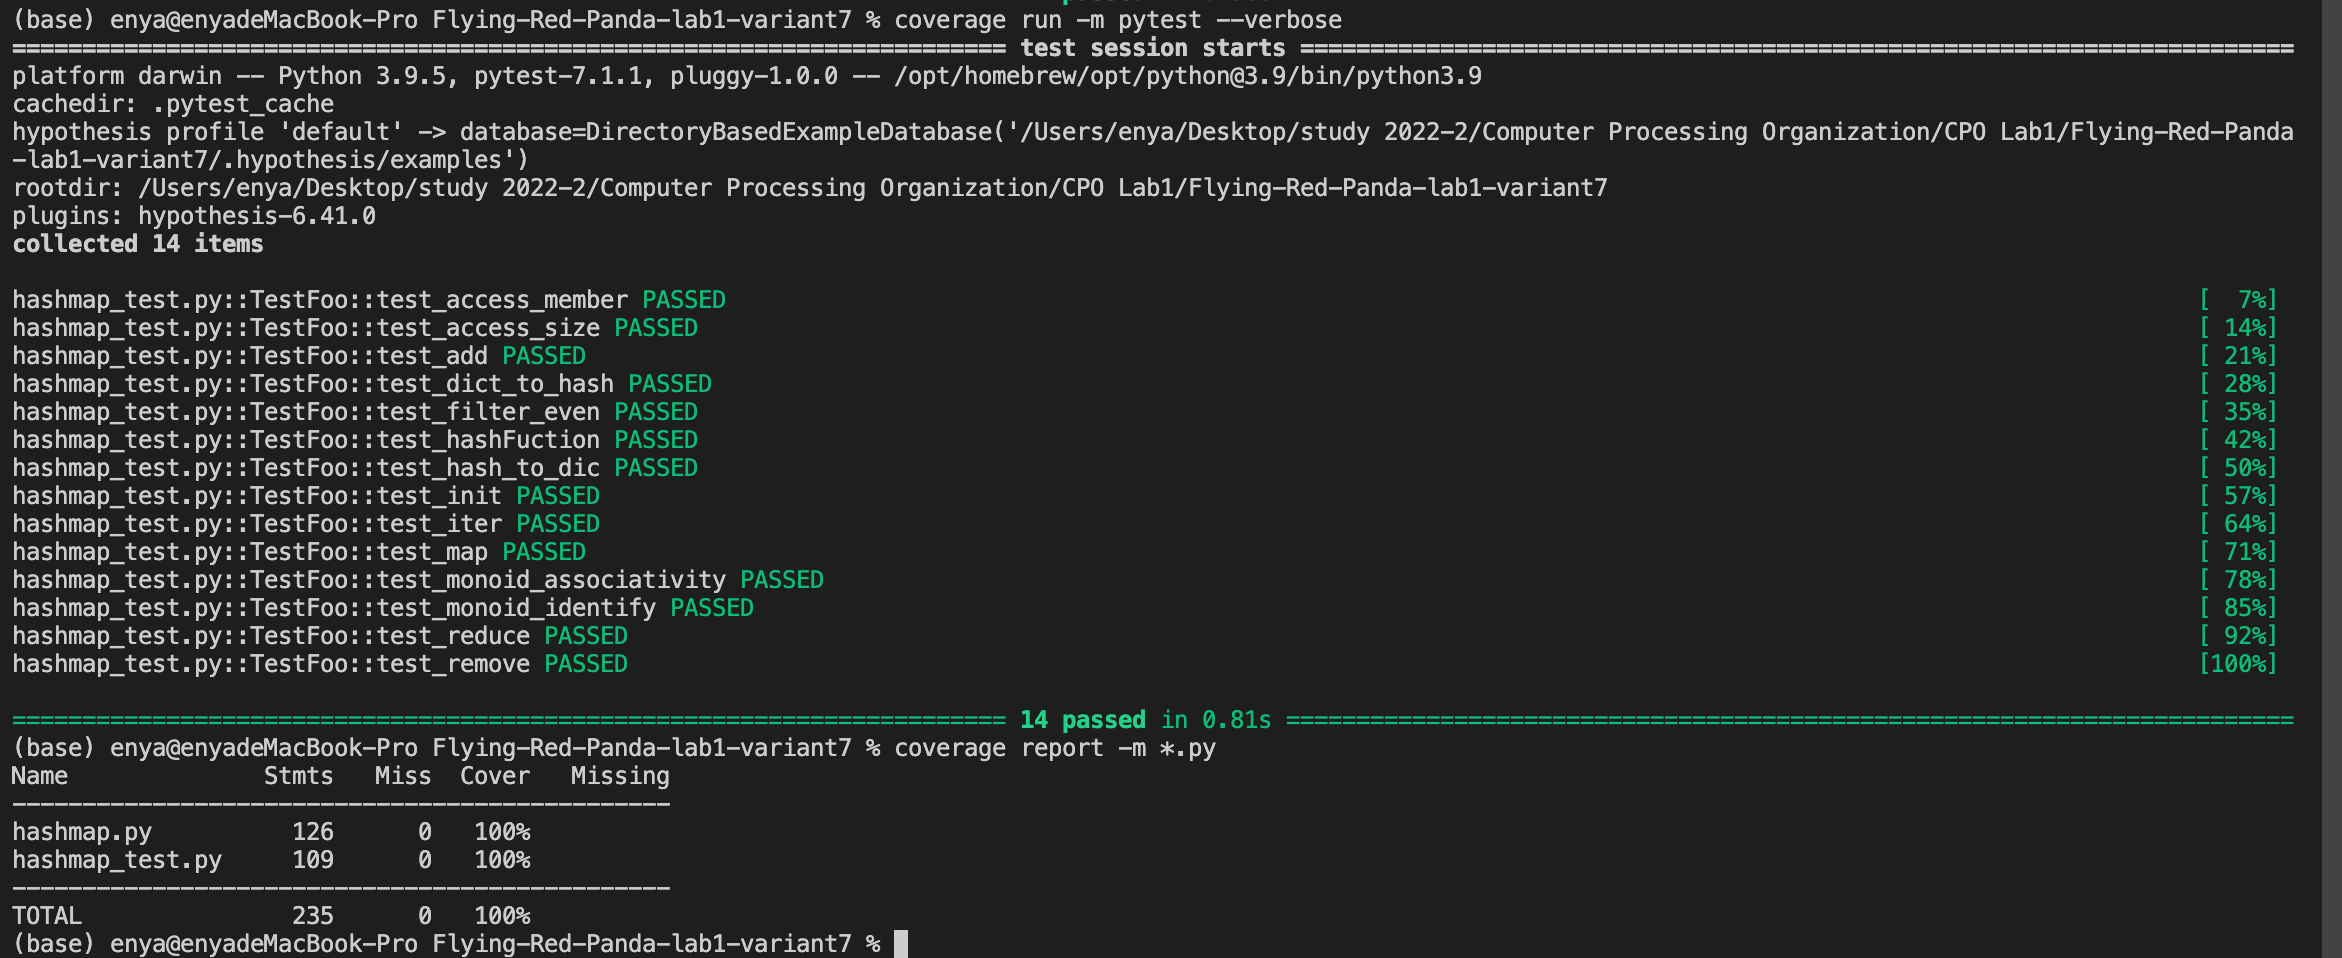
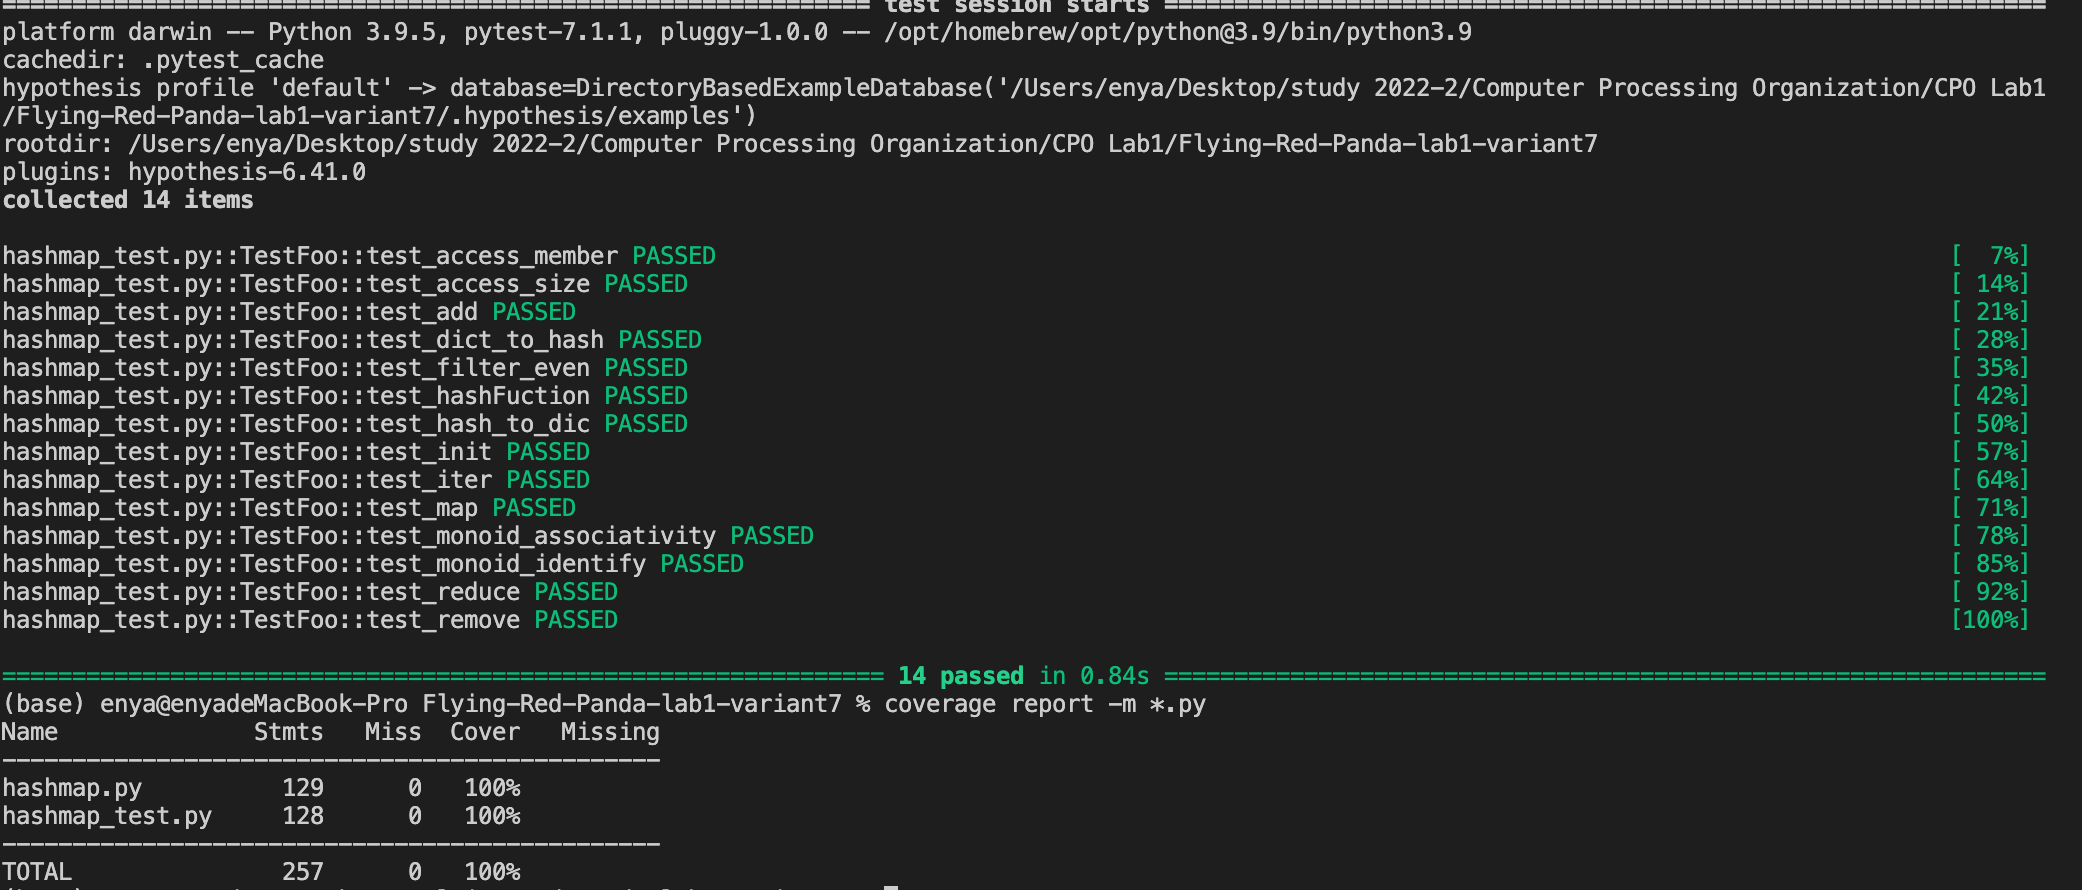
fix some of the functions

Changed region(s): [[0.0, 0.0, 1.0, 1.0]]

diff --git a/hashmap_test.py b/hashmap_test.py
@@ -7,10 +7,10 @@ from hashmap import HashMap
 class TestFoo(unittest.TestCase):
 
     def test_init(self):
-        hm = HashMap(45)
+        hm = HashMap(size=45)
         self.assertEqual(hm.bucket_size, 45)
 
-        hm = HashMap(10, {2: 'abc', 'omiga': 43, 7: 'cba', 'ocean': 66})
+        hm = HashMap({2: 'abc', 'omiga': 43, 7: 'cba', 'ocean': 66})
         hKey = hm.hashFuction(2)
         self.assertEqual(hm.bucket[hKey].value, 'abc')
         # hm.hashFuction(7) == hm.hashFuction(2)
@@ -36,9 +36,7 @@ class TestFoo(unittest.TestCase):
         self.assertEqual(hm.access_member(2), 100)
 
     def test_remove(self):
-        hm = HashMap(
-            10,
-            {2: 'abc', 'omiga': 43, 7: 'cba', 'ocean': 66, 12: 'bca'})
+        hm = HashMap({2: 'abc', 'omiga': 43, 7: 'cba', 'ocean': 66, 12: 'bca'})
         hm.remove(17)
         self.assertEqual(len(hm.key_existed), 5)
 
@@ -55,16 +53,16 @@ class TestFoo(unittest.TestCase):
         # key 9 doesn't exist
         hm.remove(9)
         hKey = hm.hashFuction(9)
-        self.assertEqual(hm.bucket[hKey], hm.empty)
+        self.assertEqual(hm.bucket[hKey], hm.bucket_init)
 
     def test_access_size(self):
-        hm = HashMap(10, {2: 'abc', 'omiga': 43, 7: 'cba', 'ocean': 66})
+        hm = HashMap({2: 'abc', 'omiga': 43, 7: 'cba', 'ocean': 66})
         self.assertEqual(hm.access_size(), 4)
         hm.remove('ocean')
         self.assertEqual(hm.access_size(), 3)
 
     def test_access_member(self):
-        hm = HashMap(10, {2: 'abc', 'omiga': 43, 7: 'cba'})
+        hm = HashMap({2: 'abc', 'omiga': 43, 7: 'cba'})
         self.assertEqual(hm.access_member(7), 'cba')
         self.assertEqual(hm.access_member(100), None)
 
@@ -95,7 +93,7 @@ class TestFoo(unittest.TestCase):
             hm.hash_to_dic(), {})
 
     def test_filter_even(self):
-        hm = HashMap(10, {'a': 3.14, 'b': 43, 'c': 22, 'd': 66, 'e': 'hello'})
+        hm = HashMap({'a': 3.14, 'b': 43, 'c': 22, 'd': 66, 'e': 'hello'})
         hm.filter_even()
         self.assertEqual(hm.access_size(), 3)
 
@@ -104,30 +102,58 @@ class TestFoo(unittest.TestCase):
         self.assertEqual(hm.hash_to_dic(), {})
 
     def test_map(self):
-        hm = HashMap(10, {'a': 3.14, 'b': 43, 'c': 22, 'd': 66, 'e': 'hello'})
-        hmMap = hm.map(str)
+        # test: function is None
+        hm = HashMap({'a': 3.14, 'b': 43, 'c': 22, 'd': 66, 'e': 'hello'})
+        hm.map()
         self.assertEqual(
-            hmMap,
+            hm.hash_to_dic(),
+            {'a': 3.14, 'b': 43, 'c': 22, 'd': 66, 'e': 'hello'})
+
+        # test: same dictionary with same function
+        hm1 = HashMap({1: 'a', 2: 'b'})
+        hm2 = HashMap({2: 'b', 1: 'a'})
+        self.assertEqual(hm1.hash_to_dic(), hm2.hash_to_dic())
+        hm1.map(ord)
+        hm2.map(ord)
+        self.assertEqual(hm1.hash_to_dic(), {1: 97, 2: 98})
+        self.assertEqual(hm1.hash_to_dic(), hm2.hash_to_dic())
+
+        # test: function : str
+        hm = HashMap({'a': 3.14, 'b': 43, 'c': 22, 'd': 66, 'e': 'hello'})
+        hm.map(str)
+        self.assertEqual(
+            hm.hash_to_dic(),
             {'a': '3.14', 'b': '43', 'c': '22', 'd': '66', 'e': 'hello'})
 
-        hm = HashMap(10, {'a': 1, 'b': 2, 'c': 3, 'd': 4, 'e': 5})
-        hmMap = hm.map(lambda x: x+2)
-        self.assertEqual(hmMap, {'a': 3, 'b': 4, 'c': 5, 'd': 6, 'e': 7})
+        # test: function : lambda x: x+2
+        hm = HashMap({'a': 1, 'b': 2, 'c': 3, 'd': 4, 'e': 5})
+        hm.map(lambda x: x+2)
+        self.assertEqual(
+            hm.hash_to_dic(), {'a': 3, 'b': 4, 'c': 5, 'd': 6, 'e': 7})
 
     def test_reduce(self):
-        hm = HashMap(10, {'a': 1, 'b': 2, 'c': 3, 'd': 4, 'e': 5})
+        hm = HashMap({'a': 1, 'b': 2, 'c': 3, 'd': 4, 'e': 5})
         hmReduce = hm.reduce(lambda x, y: x+y, 0)
         self.assertEqual(hmReduce, 15)
 
-        hm = HashMap(
-            10,
-            {1: 'Hello', 2: 'This', 3: 'Is', 4: 'A', 5: 'Dictionary'})
+        hm = HashMap({1: 'Hello', 2: 'This', 3: 'Is', 4: 'A', 5: 'Dictionary'})
         hmReduce = hm.reduce(lambda x, y: x+y, '')
         self.assertEqual(hmReduce, 'HelloThisIsADictionary')
 
     def test_iter(self):
-        hm = HashMap(10, {'a': 3.14, 'b': 43, 'c': 22, 'd': 66, 'e': 'hello'})
-        dict = hm.hash_to_dic()
+        dict = {'a': 3.14, 'b': 43, 'c': 22, 'd': 66, 'e': 'hello'}
+        hm = HashMap(dict)
+        res_out = {}
+        res_in = {}
+        for node_out in hm:
+            for node_in in hm:
+                res_in[node_in.key] = node_in.value
+            self.assertEqual(dict, res_in)
+            res_in.clear()
+
+            res_out[node_out.key] = node_out.value
+        self.assertEqual(dict, res_out)
+
         res = {}
         for node in hm:
             res[node.key] = node.value
@@ -143,20 +169,20 @@ class TestFoo(unittest.TestCase):
         )
     def test_monoid_associativity(self, dictA, dictB, dictC):
         hm = HashMap()
-        hmA = HashMap(10, dictA)
-        hmB = HashMap(10, dictB)
-        hmC = HashMap(10, dictC)
+        hmA = HashMap(dictA)
+        hmB = HashMap(dictB)
+        hmC = HashMap(dictC)
         # (a•b)•c = a•(b•c)
         self.assertEqual(
-            hm.concatHM(hm.concatHM(hmA, hmB), hmC),
-            hm.concatHM(hmA, hm.concatHM(hmB, hmC)))
+            hm.concat(hm.concat(hmA, hmB), hmC),
+            hm.concat(hmA, hm.concat(hmB, hmC)))
 
     @given(dict=strategies.dictionaries(
         strategies.integers(), strategies.integers()))
     def test_monoid_identify(self, dict):
-        hmA = HashMap(10, dict)
+        hmA = HashMap(dict)
         hm = HashMap()
         # a•e = a
-        self.assertEqual(hmA.concatHM(hmA, hm.emptyHM()), hmA)
+        self.assertEqual(hmA.concat(hmA, hm.empty()), hmA)
         # e•a = a
-        self.assertEqual(hmA.concatHM(hm.emptyHM(), hmA), hmA)
+        self.assertEqual(hmA.concat(hm.empty(), hmA), hmA)

diff --git a/hashmap.py b/hashmap.py
@@ -5,16 +5,35 @@ class Node(object):
         self.next = next
 
 
-class HashMap(object):
-    empty = object()
+# for hashmap's iteration
 
-    def __init__(self, size=10, dict=None):
+class Iter(object):
+    def __init__(self, hashmap):
+        self.hashmap = hashmap
+        self.iter_n = 0
+
+    def __next__(self):
+        if self.iter_n < len(self.hashmap.key_existed):
+            key = self.hashmap.key_existed[self.iter_n]
+            value = self.hashmap.access_member(key)
+            node = Node(key, value)
+            self.iter_n += 1
+            return node
+        else:
+            raise StopIteration()  # signals "the end"
+
+
+class HashMap(object):
+    bucket_init = object()
+
+    def __init__(self, dict=None, size=10):
+        # the amount of bucket defaults to 10
+        # bucket amount can be resized by the parameter 'size'
         self.bucket_size = size  # hashmap bucket size
-        self.bucket = [self.empty] * self.bucket_size
+        self.bucket = [self.bucket_init] * self.bucket_size
         self.key_existed = []  # store existed key in the dictionary
         if dict is not None:  # if dictionary is provided
             self.dict_to_hash(dict)
-        self.iter_n = 0  # for iteration
 
     def hashFuction(self, key):
         if type(key) == str:
@@ -30,7 +49,7 @@ class HashMap(object):
         hKey = self.hashFuction(key)
         node = Node(key, value)
 
-        if self.bucket[hKey] == self.empty:
+        if self.bucket[hKey] == self.bucket_init:
             self.bucket[hKey] = node
             self.key_existed.append(key)
         else:
@@ -59,7 +78,7 @@ class HashMap(object):
             if q:
                 self.bucket[hKey] = q
             else:
-                self.bucket[hKey] = self.empty
+                self.bucket[hKey] = self.bucket_init
             return
         while q:
             if q.key == key:
@@ -94,7 +113,7 @@ class HashMap(object):
         if len(self.key_existed) == 0:
             return res
         for item in self.bucket:
-            if item == self.empty:
+            if item == self.bucket_init:
                 continue
             p = item
             while p:
@@ -118,12 +137,12 @@ class HashMap(object):
             self.remove(key)
 
     # 6. Map structure by specific function
-    def map(self, func):
-        res = {}
+    def map(self, func=None):
+        if func is None:
+            return
         for key in self.key_existed:
             value = self.access_member(key)
-            res[key] = func(value)
-        return res
+            self.add(key, func(value))
 
     # 7. Reduce
     def reduce(self, func, initValue):
@@ -135,23 +154,14 @@ class HashMap(object):
 
     # 8. iterator
     def __iter__(self):
-        return self
-
-    def __next__(self):
-        if self.iter_n < len(self.key_existed):
-            key = self.key_existed[self.iter_n]
-            value = self.access_member(self.key_existed[self.iter_n])
-            node = Node(key, value)
-            self.iter_n += 1
-            return node
-        raise StopIteration()  # signals "the end"
+        return Iter(self)
 
     # 9. empty
-    def emptyHM(self):
+    def empty(self):
         return None
 
     # 10. concat
-    def concatHM(self, hashMap1=None, hashMap2=None):
+    def concat(self, hashMap1=None, hashMap2=None):
         if hashMap1 is None:
             return hashMap2
         if hashMap2 is None:

diff --git a/README.md b/README.md
@@ -21,6 +21,9 @@ and use separate chaining to solve the conflict problem flexibly.
 
 ## Changelog
 
+- 2022.04.18 - 4
+  - Update README. Modify part of functions and add test cases
+  as suggested.
 - 2022.04.11 - 3
   - Update README. Chek code style and type annotation.
 - 2022.04.09 - 2
